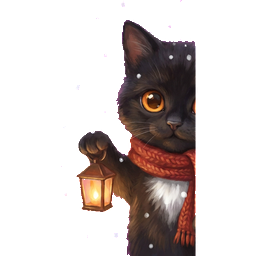
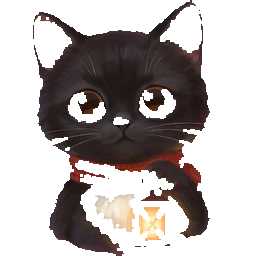
fix(musicbox-v2): round-2 art fixes — picker centering + vehicle prompts
- Regenerated jingle/picker with centered Milo portrait (was clipped to
  right half of frame). New prompt emphasizes "centered in the middle of
  the image, equal empty space on left and right sides."

- Regenerated twinkle/vehicle with improved prompt that adds "ENTIRE
  balloon and basket fully visible with generous margin" and explicit
  "NO sky, NO clouds, NO ground" to prevent NBP from rendering
  environmental context that creates rectangular boundaries.

- Updated gen_musicbox_scene.py with improved vehicle/picker prompts
  across all 3 scenes (generalized NO-background directives, generous
  margin instructions, edge-clearance requirements).

diff --git a/tools/gen_musicbox_scene.py b/tools/gen_musicbox_scene.py
@@ -70,16 +70,19 @@ SCENES: dict[str, dict] = {
             f"the top edge is a soft grassy horizon against magenta, {STYLE}"
         ),
         "vehicle_prompt": (
-            f"{LUNA} happily riding in the wicker basket of a large colorful "
+            f"{LUNA} happily riding in the wicker basket of a compact colorful "
             f"hot-air balloon, the balloon envelope has wide stripes of cherry "
             f"red, sunny yellow, and sky blue, Luna is peeping over the basket "
             f"edge and waving one hoof, ropes connect basket to balloon, the "
-            f"full balloon and basket visible, on a solid magenta (#FF00FF) "
-            f"background, {STYLE}"
+            f"ENTIRE balloon and basket fully visible with generous margin on "
+            f"all sides especially the top, isolated character and balloon only, "
+            f"NO sky, NO clouds, NO ground, NO landscape, NO background elements, "
+            f"on a solid magenta (#FF00FF) background, {STYLE}"
         ),
         "picker_prompt": (
             f"Portrait of {LUNA} smiling, head and upper body, looking directly "
-            f"at the viewer, a small hot-air balloon floats behind her, on a "
+            f"at the viewer, centered in the frame with generous padding on all "
+            f"sides, character does not touch any edge of the canvas, on a "
             f"solid magenta (#FF00FF) background, {STYLE}"
         ),
         "objects": {
@@ -131,13 +134,17 @@ SCENES: dict[str, dict] = {
         "vehicle_prompt": (
             f"{PIP} happily sitting in a small red wooden rowboat with two "
             f"little oars, Pip is peeking over the side with tongue out, the "
-            f"boat bobs on gentle waves, full boat and character visible, on a "
-            f"solid magenta (#FF00FF) background, {STYLE}"
+            f"ENTIRE boat and character fully visible with generous margin on "
+            f"all sides, isolated character and boat only, NO water, NO waves, "
+            f"NO ocean, NO sea, NO ground, NO background elements, on a solid "
+            f"magenta (#FF00FF) background, {STYLE}"
         ),
         "picker_prompt": (
-            f"Portrait of {PIP} smiling, head and upper body, wearing a small "
-            f"sailor hat, looking directly at the viewer, a tiny anchor in the "
-            f"background, on a solid magenta (#FF00FF) background, {STYLE}"
+            f"Portrait of {PIP} smiling with tongue out, head and upper body, "
+            f"wearing a small sailor hat, looking directly at the viewer, "
+            f"centered in the frame with generous padding on all sides, "
+            f"character does not touch any edge of the canvas, on a solid "
+            f"magenta (#FF00FF) background, {STYLE}"
         ),
         "objects": {
             "sky": [
@@ -173,8 +180,9 @@ SCENES: dict[str, dict] = {
             f"A seamlessly tileable horizontal panoramic snowy pine forest strip "
             f"on a solid magenta (#FF00FF) background where the sky would be, "
             f"snow-covered evergreen pine trees of varying sizes in the distance, "
-            f"soft blue-white snow drifts, gentle rolling snowy hills, sky region "
-            f"is solid magenta, {STYLE}"
+            f"all trees fully contained within the frame with their tops well "
+            f"below the upper edge, soft blue-white snow drifts, gentle rolling "
+            f"snowy hills, sky region is solid magenta, {STYLE}"
         ),
         "fg_prompt": (
             f"A seamlessly tileable horizontal panoramic snowy ground strip "
@@ -185,14 +193,17 @@ SCENES: dict[str, dict] = {
         ),
         "vehicle_prompt": (
             f"{MILO} bundled up in a red scarf sitting on a wooden sled with "
-            f"curved runners, the sled is sliding down a snowy slope, Milo's "
-            f"scarf flutters behind, full sled and character visible, on a "
-            f"solid magenta (#FF00FF) background, {STYLE}"
+            f"curved runners, Milo's scarf flutters behind, the ENTIRE sled "
+            f"and character fully visible with generous margin on all sides, "
+            f"isolated character and sled only, NO snow, NO ground, NO slope, "
+            f"NO landscape, NO background elements, on a solid magenta "
+            f"(#FF00FF) background, {STYLE}"
         ),
         "picker_prompt": (
             f"Portrait of {MILO} wearing a red scarf, head and upper body, "
-            f"looking directly at the viewer, snowflakes in the air around him, "
-            f"on a solid magenta (#FF00FF) background, {STYLE}"
+            f"looking directly at the viewer, centered in the frame with "
+            f"generous padding on all sides, character does not touch any edge "
+            f"of the canvas, on a solid magenta (#FF00FF) background, {STYLE}"
         ),
         "objects": {
             "sky": [
@@ -330,8 +341,9 @@ def _gen_sprite(prompt: str, name: str, out_dir: Path, size: int = 256,
 
         ok = ask_yes_no(
             f"Is this a clean sprite of: {prompt.split(',')[0]}? "
-            f"Should be a single object, transparent background, "
-            f"painterly children's book style, no text.",
+            f"Requirements: single complete object on a transparent "
+            f"background, the character is NOT clipped or cut off at any "
+            f"edge, painterly children's book style, no text.",
             [sprite],
         )
         if ok:
